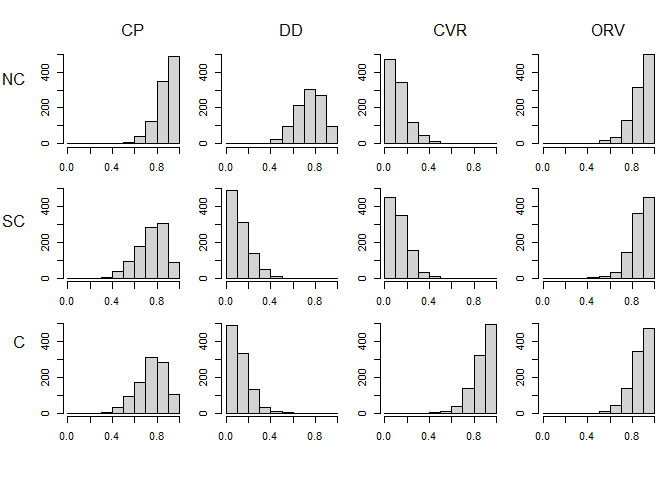
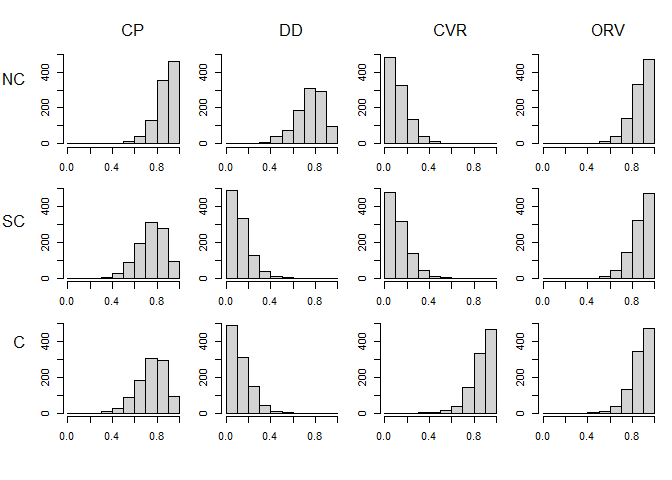
compare costs

diff --git a/notesoptimrabies.md b/notesoptimrabies.md
@@ -1,5 +1,5 @@
 ---
-title: "optimize rabies campaign: take 6 with costs from Gibson et al. 2020"
+title: "optimize rabies campaign: take 7 compare costs with/without oral baits"
 author: "Kim Cuddington"
 date: "07/05/2022"
 output: 
@@ -382,9 +382,9 @@ knitr::kable(pmat, digits=2, caption="Table: Median and range of vaccine efficac
 
 |   |CP                   |DD                   |CVR                  |ORV               |
 |:--|:--------------------|:--------------------|:--------------------|:-----------------|
-|C  |0.9 ( 0.52 - 1 )     |0.9 ( 0.44 - 1 )     |0.11 ( 0 - 0.54 )    |0.1 ( 0 - 0.59 )  |
-|SC |0.76 ( 0.32 - 0.98 ) |0.77 ( 0.29 - 0.98 ) |0.89 ( 0.43 - 1 )    |0.9 ( 0.44 - 1 )  |
-|NC |0.11 ( 0 - 0.53 )    |0.1 ( 0 - 0.55 )     |0.76 ( 0.32 - 0.99 ) |0.89 ( 0.53 - 1 ) |
+|C  |0.89 ( 0.41 - 1 )    |0.89 ( 0.49 - 1 )    |0.1 ( 0 - 0.66 )     |0.1 ( 0 - 0.51 )  |
+|SC |0.77 ( 0.38 - 0.98 ) |0.76 ( 0.34 - 0.98 ) |0.9 ( 0.42 - 1 )     |0.89 ( 0.4 - 1 )  |
+|NC |0.1 ( 0 - 0.55 )     |0.1 ( 0 - 0.54 )     |0.77 ( 0.34 - 0.99 ) |0.89 ( 0.48 - 1 ) |
 
  </td>
   </tr>
@@ -406,11 +406,11 @@ knitr::kable(omat, digits=2, caption="Table: Optimal vaccine allocation strategy
 
 |     |C                             |SC                            |NC                              |
 |:----|:-----------------------------|:-----------------------------|:-------------------------------|
-|CP   |0 ( 0 - 8400.00000000001 )    |0 ( 0 - 7200 )                |0 ( 0 - 0 )                     |
-|DD   |5880 ( 0 - 8400.00000000001 ) |0 ( 0 - 7200 )                |0 ( 0 - 0 )                     |
-|CVR  |0 ( 0 - 0 )                   |5520 ( 0 - 7200 )             |6480 ( 6480 - 13080 )           |
+|CP   |5880 ( 0 - 8400.00000000001 ) |0 ( 0 - 7200 )                |0 ( 0 - 0 )                     |
+|DD   |0 ( 0 - 8400 )                |0 ( 0 - 7200 )                |0 ( 0 - 6480 )                  |
+|CVR  |0 ( 0 - 0 )                   |5520 ( 0 - 7200 )             |6480 ( 0 - 13080 )              |
 |ORV  |0 ( 0 - 0 )                   |0 ( 0 - 3600 )                |3600 ( 0 - 3600 )               |
-|%vax |1 ( 0.7 - 1 )                 |0.766666666666667 ( 0.7 - 1 ) |0.7 ( 0.7 - 0.908333333333334 ) |
+|%vax |1 ( 0.699999999999999 - 1 )   |0.766666666666667 ( 0.7 - 1 ) |0.7 ( 0.7 - 0.908333333333334 ) |
 
  </td>
   </tr>
@@ -519,10 +519,10 @@ $breaks
 [13] 30000 32500 35000
 
 $counts
- [1] 26 13 17 14  9 10  7  3  1  0  0  0  0  0
+ [1] 23  7 23 20  9  6  8  3  1  0  0  0  0  0
 
 $density
- [1] 0.000104 0.000052 0.000068 0.000056 0.000036 0.000040 0.000028 0.000012
+ [1] 0.000092 0.000028 0.000092 0.000080 0.000036 0.000024 0.000032 0.000012
  [9] 0.000004 0.000000 0.000000 0.000000 0.000000 0.000000
 
 $mids
@@ -544,11 +544,11 @@ $breaks
 [13] 30000 32500 35000
 
 $counts
- [1]  2 16 25 25 19  6  3  2  1  0  0  1  0  0
+ [1]  4 19 24 20 15  8  8  2  0  0  0  0  0  0
 
 $density
- [1] 0.000008 0.000064 0.000100 0.000100 0.000076 0.000024 0.000012 0.000008
- [9] 0.000004 0.000000 0.000000 0.000004 0.000000 0.000000
+ [1] 0.000016 0.000076 0.000096 0.000080 0.000060 0.000032 0.000032 0.000008
+ [9] 0.000000 0.000000 0.000000 0.000000 0.000000 0.000000
 
 $mids
  [1]  1250  3750  6250  8750 11250 13750 16250 18750 21250 23750 26250 28750
@@ -569,11 +569,11 @@ $breaks
 [13] 30000 32500 35000
 
 $counts
- [1]  0  1  7 13 20 20 20  7  7  3  2  0  0  0
+ [1]  0  2  8 10 28 19 16 11  2  0  2  2  0  0
 
 $density
- [1] 0.000000 0.000004 0.000028 0.000052 0.000080 0.000080 0.000080 0.000028
- [9] 0.000028 0.000012 0.000008 0.000000 0.000000 0.000000
+ [1] 0.000000 0.000008 0.000032 0.000040 0.000112 0.000076 0.000064 0.000044
+ [9] 0.000008 0.000000 0.000008 0.000008 0.000000 0.000000
 
 $mids
  [1]  1250  3750  6250  8750 11250 13750 16250 18750 21250 23750 26250 28750
@@ -589,7 +589,7 @@ attr(,"class")
 [1] "histogram"
 ```
 
-Our simulations provide a range of always confined dogs (6807 ( 0 - 21724 )), semi-confined(7863 ( 1473 - 27999 )), and never confined dogs (13970 ( 4338 - 27184 )), which produces  a range of vaccination outcomes for a fixed number of vaccines (injections = 20400 and baits = 3600), but overall, a standard strategy emerges for this level of uncertainty in the dog populations.
+Our simulations provide a range of always confined dogs (6836 ( 0 - 20820 )), semi-confined(7709 ( 1030 - 18517 )), and never confined dogs (13264 ( 4329 - 29007 )), which produces  a range of vaccination outcomes for a fixed number of vaccines (injections = 20400 and baits = 3600), but overall, a standard strategy emerges for this level of uncertainty in the dog populations.
 
 We could also simultaneously vary the uncertainty about the dog population and the vaccine delivery efficacy, but I'm not sure this is useful when we have a range of dog categories that is sometimes zero? We need a better way to perhaps plot/categorize these different scenarios
 
@@ -597,13 +597,13 @@ We could also simultaneously vary the uncertainty about the dog population and t
 
 Table: Table: Optimal vaccine allocation strategy for fixed number of vaccines (median, min - max)
 
-|     |C                  |SC                |NC                 |
-|:----|:------------------|:-----------------|:------------------|
-|CP   |2659 ( 0 - 15560 ) |0 ( 0 - 0 )       |0 ( 0 - 0 )        |
-|DD   |0 ( 0 - 0 )        |0 ( 0 - 0 )       |0 ( 0 - 0 )        |
-|CVR  |0 ( 0 - 0 )        |5984 ( 0 - 7441 ) |5698 ( 0 - 14146 ) |
-|ORV  |0 ( 0 - 0 )        |0 ( 0 - 0 )       |3600 ( 0 - 3600 )  |
-|%vax |1 ( 0 - 1 )        |0.77 ( 0 - 1 )    |0.7 ( 0 - 1 )      |
+|     |C                  |SC                 |NC                 |
+|:----|:------------------|:------------------|:------------------|
+|CP   |3807 ( 0 - 14540 ) |0 ( 0 - 0 )        |0 ( 0 - 0 )        |
+|DD   |0 ( 0 - 0 )        |0 ( 0 - 0 )        |0 ( 0 - 0 )        |
+|CVR  |0 ( 0 - 0 )        |5416 ( 0 - 12276 ) |5146 ( 0 - 10723 ) |
+|ORV  |0 ( 0 - 0 )        |0 ( 0 - 0 )        |3600 ( 0 - 3600 )  |
+|%vax |1 ( 0 - 1 )        |0.82 ( 0 - 1 )     |0.7 ( 0 - 1 )      |
 
 ## Find optimal solultion for expediture
 
@@ -992,13 +992,14 @@ This calculation gives total staff needed to deliver 30000 vaccinations, as 22 f
 
 # there are separate spreadsheets for each of these SUpplementary materials 1 https://www.mdpi.com/2414-6366/5/1/47
 
-rm(cost)
-costG=read.xlsx("FIX_Bang Scen A - OBH - 11d.xlsx",
+rm(cost, costG, costGm)
+costGm=read.xlsx("FIX_Bang Scen A - OBH - 11d.xlsx",
 sheet=4,rows=c(28:73),cols=c(1:7),
 startRow = 28)
-costG=costG[complete.cases(costG),]
-colnames(costG)[4:6]=c("low_unit_cost", "mean_unit_cost", "hi_unit_cost")
-costG=as.data.frame(costG)
+costGm=costGm[complete.cases(costGm),]
+colnames(costGm)[4:6]=c("low_unit_cost", "mean_unit_cost", "hi_unit_cost")
+rownames(costGm)=c(1:nrow(costGm))
+costG=as.data.frame(costGm)
 costG[,2:6]=apply(costG[,2:6], 2, function(x) as.numeric(x, na.rm=TRUE))
 
 knitr::kable(costG, digits=2, caption="Table: Vaccination costs Gibson et al. 2020")
@@ -1008,39 +1009,39 @@ knitr::kable(costG, digits=2, caption="Table: Vaccination costs Gibson et al. 20
 
 Table: Table: Vaccination costs Gibson et al. 2020
 
-|   | Item                                      |    Units| Work.days| low_unit_cost| mean_unit_cost| hi_unit_cost|
-|:--|:------------------------------------------|--------:|---------:|-------------:|--------------:|------------:|
-|3  |Program manager                            |     1.00|        11|         12.00|          18.00|        24.00|
-|4  |Informational supervisor                   |     1.00|        11|         12.00|          18.00|        24.00|
-|5  |Vaccination supervisor (1 per 25,000 dogs) |     4.07|        11|          8.00|          15.00|        20.00|
-|6  |Central Point technician                   |     0.00|        11|          6.00|          12.00|        14.00|
-|7  |Door to Door technician                    |   210.53|        11|          7.00|          13.00|        16.00|
-|8  |Capture/Vax/Release technician             |     0.00|        11|          7.00|          11.00|        13.00|
-|9  |ORV technician                             |     0.00|        11|          7.00|          13.00|        16.00|
-|10 |Driver                                     |     8.13|        11|          5.00|           8.00|        10.00|
-|11 |Other Personnel                            |     2.00|        11|          6.00|           8.00|        10.00|
-|13 |Government vehicle (including gasoline)    |     0.00|        11|         10.00|          15.00|        20.00|
-|14 |Other vehicle (ie rental, purchase, other) |     8.13|        11|         10.00|          15.00|        20.00|
-|15 |Gasoline                                   |     8.13|        11|         10.00|          15.00|        20.00|
-|16 |Maintenance vehicle                        |     3.00|        11|          3.00|           5.00|         8.00|
-|17 |Public transport                           |     0.00|        11|          1.30|           1.60|         1.90|
-|19 |Media (e.g. posters)                       | 10000.00|        NA|          0.48|           0.60|         0.72|
-|20 |Air time (radio, car with speakers, etc.)  |     4.07|        10|         30.00|          35.00|        40.00|
-|21 |Other costs                                |     2.00|        NA|       2500.00|        5000.00|      7500.00|
-|23 |Tables                                     |     0.00|        NA|         10.00|          20.00|        40.00|
-|24 |Coolers                                    |   105.26|        NA|          6.00|          10.00|        15.00|
-|25 |Dog handling (e.g., muzzles)               |     0.00|        NA|         20.00|          40.00|        60.00|
-|26 |CVR Kit                                    |     0.00|        NA|         40.00|          60.00|        80.00|
-|27 |First-aid                                  |   105.26|        NA|          5.00|           7.00|        10.00|
-|28 |Central Vaccine Storage                    |     1.00|       365|         20.00|          30.00|        40.00|
-|29 |CP/DD Bite PEP (1 in 2,000)                |       NA|        10|         60.00|         100.00|       140.00|
-|30 |CVR Bite Booster PEP (1 in 500)            |       NA|         0|         60.00|         100.00|       140.00|
-|31 |Other equipment / supplies                 |     1.00|        NA|       2000.00|        2500.00|      3000.00|
-|35 |Vaccines (Parenteral)                      | 20000.00|        NA|          0.30|           0.40|         0.50|
-|36 |Vaccines (Oral)                            | 60000.00|        NA|          1.50|           2.00|         2.50|
-|37 |Syringes and needles                       | 20000.00|        NA|          0.11|           0.13|         0.15|
-|38 |Vaccination certificates                   | 80000.00|        NA|          0.03|           0.05|         0.08|
-|39 |Dog marking                                | 80000.00|        NA|          0.02|           0.03|         0.04|
+| Item                                      |    Units| Work.days| low_unit_cost| mean_unit_cost| hi_unit_cost|
+|:------------------------------------------|--------:|---------:|-------------:|--------------:|------------:|
+|Program manager                            |     1.00|        11|         12.00|          18.00|        24.00|
+|Informational supervisor                   |     1.00|        11|         12.00|          18.00|        24.00|
+|Vaccination supervisor (1 per 25,000 dogs) |     4.07|        11|          8.00|          15.00|        20.00|
+|Central Point technician                   |     0.00|        11|          6.00|          12.00|        14.00|
+|Door to Door technician                    |   210.53|        11|          7.00|          13.00|        16.00|
+|Capture/Vax/Release technician             |     0.00|        11|          7.00|          11.00|        13.00|
+|ORV technician                             |     0.00|        11|          7.00|          13.00|        16.00|
+|Driver                                     |     8.13|        11|          5.00|           8.00|        10.00|
+|Other Personnel                            |     2.00|        11|          6.00|           8.00|        10.00|
+|Government vehicle (including gasoline)    |     0.00|        11|         10.00|          15.00|        20.00|
+|Other vehicle (ie rental, purchase, other) |     8.13|        11|         10.00|          15.00|        20.00|
+|Gasoline                                   |     8.13|        11|         10.00|          15.00|        20.00|
+|Maintenance vehicle                        |     3.00|        11|          3.00|           5.00|         8.00|
+|Public transport                           |     0.00|        11|          1.30|           1.60|         1.90|
+|Media (e.g. posters)                       | 10000.00|        NA|          0.48|           0.60|         0.72|
+|Air time (radio, car with speakers, etc.)  |     4.07|        10|         30.00|          35.00|        40.00|
+|Other costs                                |     2.00|        NA|       2500.00|        5000.00|      7500.00|
+|Tables                                     |     0.00|        NA|         10.00|          20.00|        40.00|
+|Coolers                                    |   105.26|        NA|          6.00|          10.00|        15.00|
+|Dog handling (e.g., muzzles)               |     0.00|        NA|         20.00|          40.00|        60.00|
+|CVR Kit                                    |     0.00|        NA|         40.00|          60.00|        80.00|
+|First-aid                                  |   105.26|        NA|          5.00|           7.00|        10.00|
+|Central Vaccine Storage                    |     1.00|       365|         20.00|          30.00|        40.00|
+|CP/DD Bite PEP (1 in 2,000)                |       NA|        10|         60.00|         100.00|       140.00|
+|CVR Bite Booster PEP (1 in 500)            |       NA|         0|         60.00|         100.00|       140.00|
+|Other equipment / supplies                 |     1.00|        NA|       2000.00|        2500.00|      3000.00|
+|Vaccines (Parenteral)                      | 20000.00|        NA|          0.30|           0.40|         0.50|
+|Vaccines (Oral)                            | 60000.00|        NA|          1.50|           2.00|         2.50|
+|Syringes and needles                       | 20000.00|        NA|          0.11|           0.13|         0.15|
+|Vaccination certificates                   | 80000.00|        NA|          0.03|           0.05|         0.08|
+|Dog marking                                | 80000.00|        NA|          0.02|           0.03|         0.04|
 
 ```r
 rateG=read.xlsx("FIX_Bang Scen A - OBH - 11d.xlsx",colNames=FALSE,
@@ -1081,7 +1082,7 @@ numpeople=c(1,2,5,2)*mean(costG[4:7, 5])/rateG[,2]
 
  #costs between van and cycle not distinguished here? assume 2x
 vehrent=sum(costG[11:12,5])/rateG[,2]
-vehrent=vehrent*c(1,1,2,1)
+vehrent=vehrent*c(0,1,2,1)
 
  
 #specialized costs (so exclude coolers here)
@@ -1091,12 +1092,14 @@ CPDDcost=costG[24,5]/2000
 OBcost=costG[24,5]/1000 #assume higher than dd/cp, but lower than 
 equip=c(CPDDcost,CPDDcost,CVRcost,OBcost) #really these are fixed costs and need a different method of incorporation probably equip+people+costvax
 
-bcost=costvax+numpeople+equip
+bcost=costvax+numpeople+equip+vehrent
 #the absolute largest item here is the per unit cost
 # of the OB at 3.00
 
-
+#number of vax attempts per each successful vax
 pvecd=1/pve
+
+#cost per successful vax attempt
 pvecd=bcost*t(pvecd)
 ```
 
@@ -1163,12 +1166,12 @@ knitr::kable(pvecdd, digits=2, caption="Table: Vax costs * 1/efficacy: cost per 
 
 Table: Table: Vax costs * 1/efficacy: cost per unit unit successful vax
 
-|    |     C|   SC|    NC|
-|:---|-----:|----:|-----:|
-|CP  |  1.09| 1.30| 20.79|
-|DD  |  1.52| 1.81| 28.95|
-|CVR | 61.85| 3.26|  3.87|
-|ORV | 52.80| 2.78|  2.78|
+|    |      C|   SC|    NC|
+|:---|------:|----:|-----:|
+|CP  |   1.09| 1.30| 20.79|
+|DD  |   2.58| 3.06| 48.95|
+|CVR | 101.85| 5.36|  6.37|
+|ORV |  64.80| 3.41|  3.41|
 
 ```r
 knitr::kable(solntab, digits=2, caption="Table: Optimal vaccine allocation strategy")
@@ -1203,5 +1206,132 @@ pdays=methunits/rateG[,2]
 staff=pdays/30
 tstaff=sum(staff)
 ```
-Total cost of the campaign is then 54229.6. This calculation gives total staff needed to deliver 30000 vaccinations, as 27 for 30 days.
+Total direct vaccination costs of the campaign is then \$62869.6. This calculation gives total vaccination staff needed to deliver 30000 vaccinations, as 27 for 30 days. With an average cost of $2.1 per vaccinated dog.
 
+
+```r
+# check the cost impact of oral baits
+# set efficicacy to zero and rerun the analysis
+pveno=pve
+pveno=pveno[, -4]
+pveno
+```
+
+```
+     CP   DD  CVR
+C  0.95 0.95 0.05
+SC 0.80 0.80 0.95
+NC 0.05 0.05 0.80
+```
+
+```r
+#number of vax attempts per each successful vax
+pvecdno=1/pveno
+
+#cost per successful vax attempt
+pvecdno=bcost[-4]*t(pvecdno)
+
+objno=c((as.matrix(pvecdno)))
+
+m <- 3
+n <- 3
+constr <- matrix (0 , n +m , n*m )
+for(i in 1:m){ 
+  for(j in 1:n){ 
+    constr[i, n*(i-1) + j] <- 1
+    constr[m+j, n*(i-1) + j] <- 1
+  }
+}
+# this array will ensure we cannot exceed the number of dogs in 
+# a category
+
+
+cover1=c(pveno[1,1],pveno[1,2],pveno[1,3],0,0,0,0,0,0) #required coverage C
+cover2=c(0,0,0,pveno[2,1],pveno[2,2],pveno[2,3],0,0,0) #required coverage SC
+cover3=c(0,0,0,0,0,pveno[3,1],pveno[3,2],pveno[3,3]) #required coverage NC
+
+
+
+constr=rbind(constr, cover1, cover2, cover3)
+rhs <- c(d[1], d[2], d[3],  rep(0.7*sum(d),3), 0.7*d[1],0.7*d[2],0.7*d[3])
+constr.dir <- c(rep(">=",3 ), rep("<=", 3),
+                rep(">=",3))
+
+
+
+prod.trans <- lp ("min", objective.in=objno, 
+                  constr, constr.dir, rhs)
+
+rm(soln)
+soln=(matrix(prod.trans$solution, nrow=3))
+
+
+pvex=soln*(pveno)
+solntab=(rbind(soln,colSums(pvex)/d ))
+solntab=rbind(solntab,d)
+colnames(solntab)=dogcats
+rownames(solntab)=c(vaxcats[-4],"%vax", "dogs")
+solntab
+```
+
+```
+           C      SC          NC
+CP   8400.00 7200.00     0.00000
+DD      0.00    0.00 12600.00000
+CVR     0.00    0.00  1800.00000
+%vax    0.95    0.95     0.93125
+dogs 8400.00 7200.00 14400.00000
+```
+
+```r
+knitr::kable(pvecdd, digits=2, caption="Table: no oral baits: Vax costs * 1/efficacy: cost per unit unit successful vax")
+```
+
+
+
+Table: Table: no oral baits: Vax costs * 1/efficacy: cost per unit unit successful vax
+
+|    |      C|   SC|    NC|
+|:---|------:|----:|-----:|
+|CP  |   1.09| 1.30| 20.79|
+|DD  |   2.58| 3.06| 48.95|
+|CVR | 101.85| 5.36|  6.37|
+|ORV |  64.80| 3.41|  3.41|
+
+```r
+knitr::kable(solntab, digits=2, caption="Table: No oral baits: Optimal vaccine allocation strategy")
+```
+
+
+
+Table: Table: No oral baits: Optimal vaccine allocation strategy
+
+|     |       C|      SC|       NC|
+|:----|-------:|-------:|--------:|
+|CP   | 8400.00| 7200.00|     0.00|
+|DD   |    0.00|    0.00| 12600.00|
+|CVR  |    0.00|    0.00|  1800.00|
+|%vax |    0.95|    0.95|     0.93|
+|dogs | 8400.00| 7200.00| 14400.00|
+
+
+```r
+#total vax costs
+campcostno=soln*bcost
+
+#Calc needed person/days
+
+meths=solntab[1:3,]
+methunits=rowSums(meths)
+pdays=methunits/rateG[1:3,2]
+
+#Calc needed persons (/by campaign days)
+# one month?
+
+staff=pdays/30
+tstaffno=sum(staff)
+```
+
+Total direct vaccination costs of the campaign is then \$74753.2. This calculation gives total vaccination staff needed to deliver 30000 vaccinations, as 33 for 30 days. With an average cost of $2.49 per vaccinated dog.
+
+So for this campaign, the use of oral baits would save $11883.6, and need 6.4 fewer staff members.
